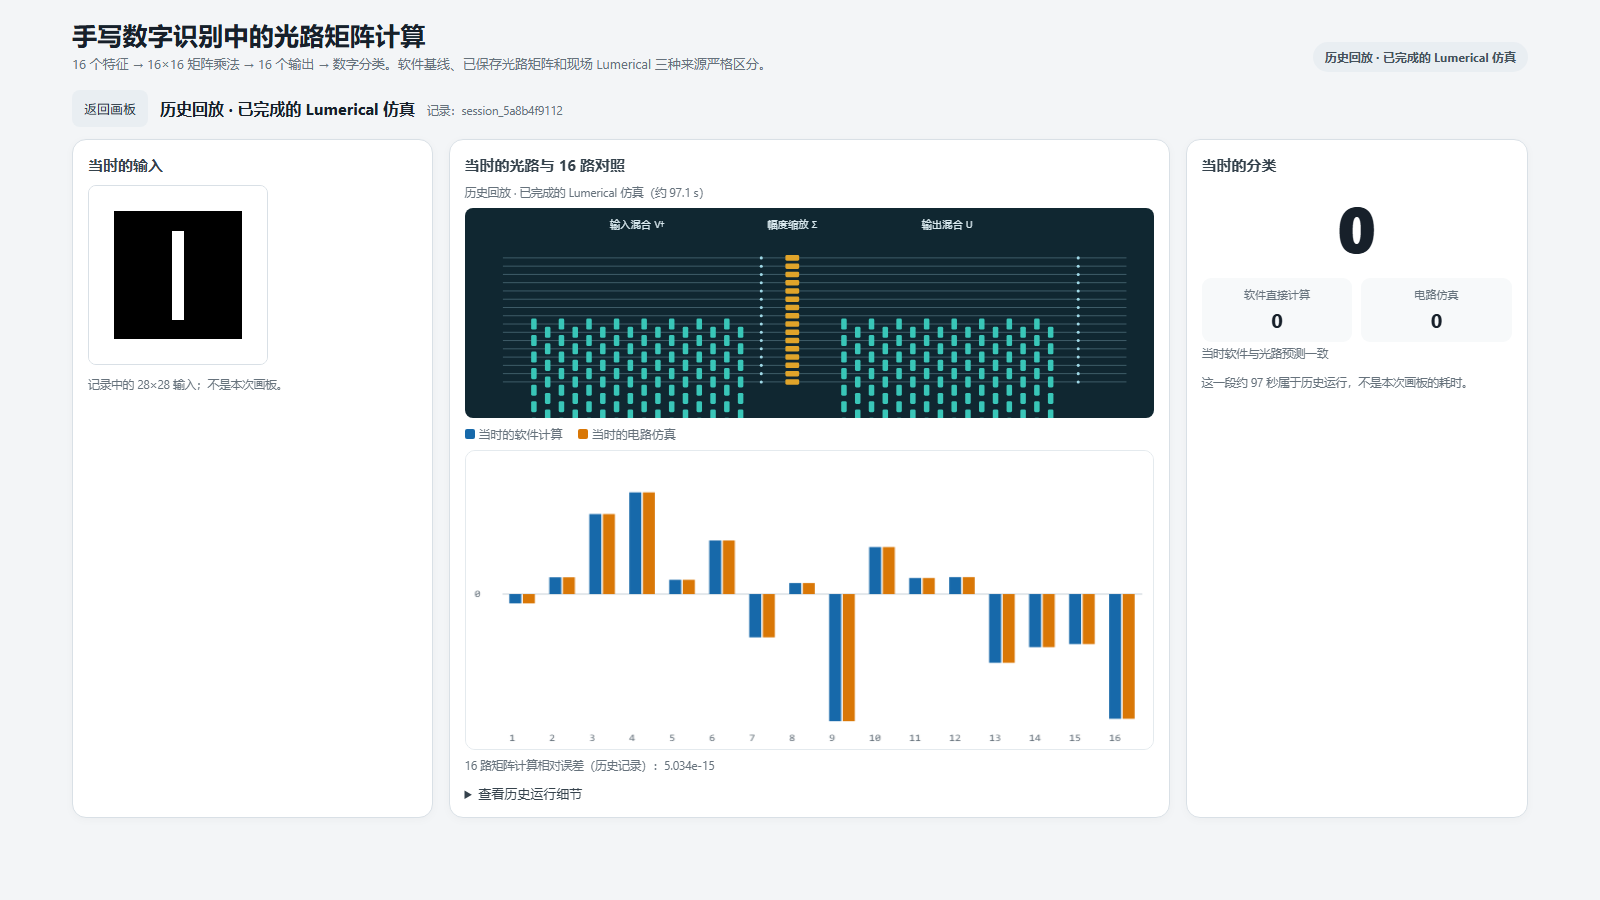
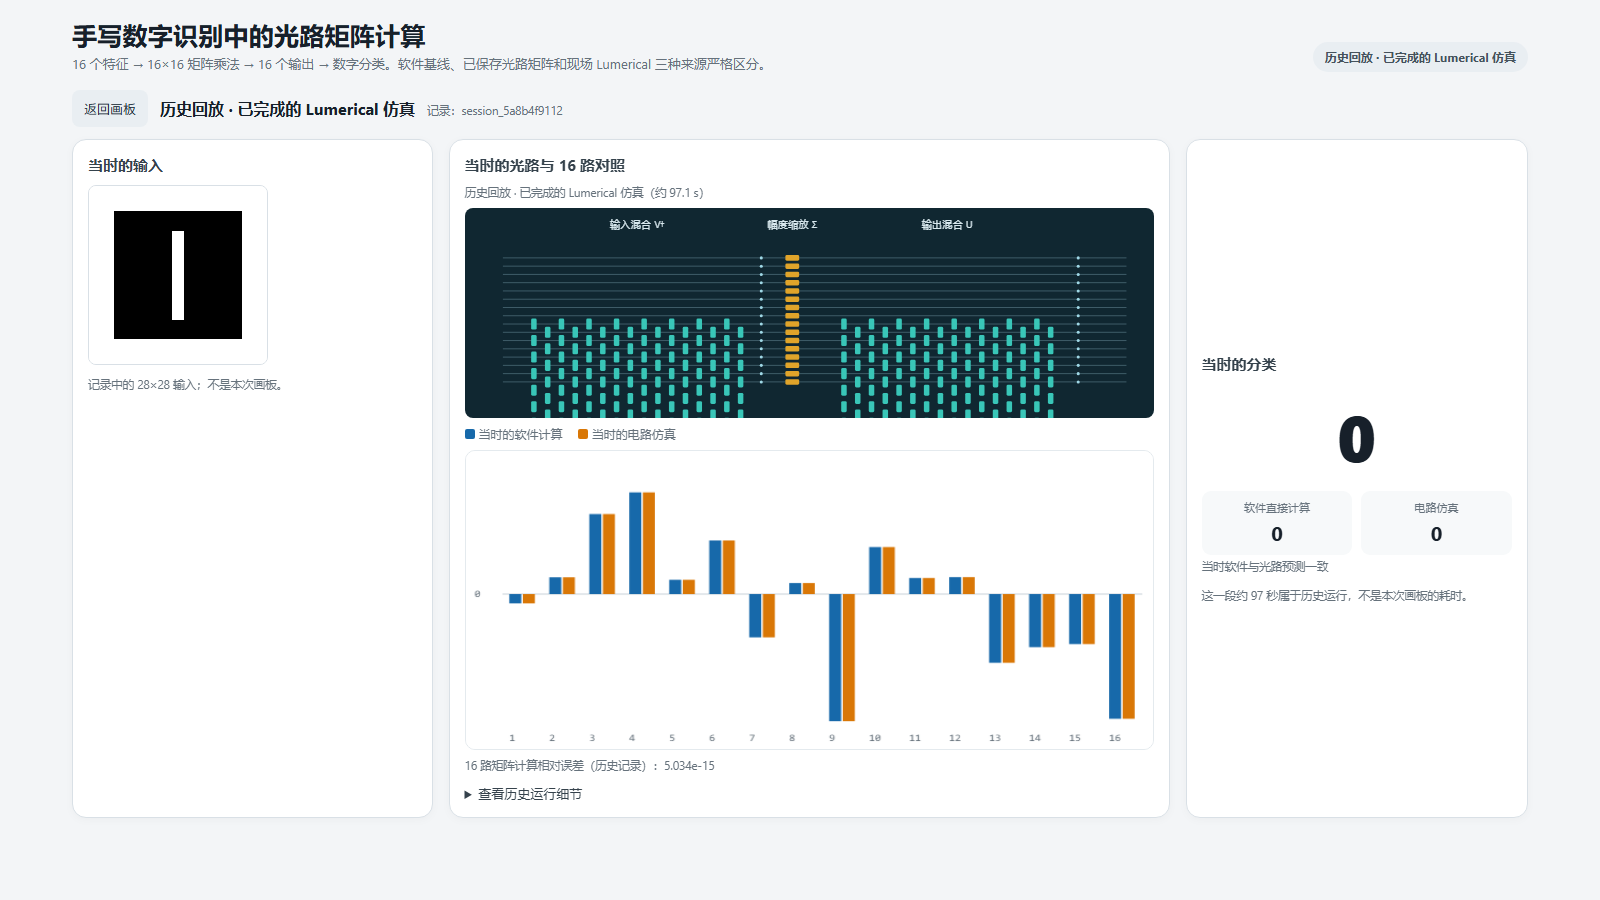
Balance presentation columns and topology layout

diff --git a/lumerical/live_digit_ui.py b/lumerical/live_digit_ui.py
@@ -43,26 +43,27 @@ h1 { font-size:25px; margin:0; letter-spacing:.01em; }
 #sourceBadge.live { background:#d93025; color:#fff; }
 #sourceBadge.cached { background:#e9eef2; color:#45525c; }
 #sourceBadge.digital { background:#e9eef2; color:#45525c; }
-main { max-width:1500px; margin:0 auto; padding:10px 22px 26px; display:grid; grid-template-columns:minmax(250px,1fr) minmax(430px,2fr) minmax(230px,.95fr); gap:16px; align-items:start; }
-.card { background:#fff; border:1px solid var(--line); border-radius:14px; padding:15px; box-shadow:0 2px 10px #00000008; min-width:0; }
+main { max-width:1500px; margin:0 auto; padding:10px 22px 26px; display:grid; grid-template-columns:minmax(250px,1fr) minmax(430px,2fr) minmax(230px,.95fr); gap:16px; align-items:stretch; }
+.card { background:#fff; border:1px solid var(--line); border-radius:14px; padding:15px; box-shadow:0 2px 10px #00000008; min-width:0; height:100%; }
+.classifyCard { display:flex; flex-direction:column; justify-content:center; }
 .card h2 { font-size:15px; margin:0 0 10px; color:#35424c; }
-canvas.pad { width:100%; max-width:300px; aspect-ratio:1; border:1px solid #b9c4cc; border-radius:10px; touch-action:none; cursor:crosshair; display:block; margin:0 auto; background:#fff; }
-.row { display:flex; gap:8px; flex-wrap:wrap; margin-top:10px; align-items:center; }
+canvas.pad { width:100%; max-width:200px; aspect-ratio:1; border:1px solid #b9c4cc; border-radius:10px; touch-action:none; cursor:crosshair; display:block; margin:0 auto; background:#fff; }
+.row { display:flex; gap:8px; flex-wrap:wrap; margin-top:7px; align-items:center; }
 button { border:0; border-radius:8px; padding:9px 12px; font-size:13px; cursor:pointer; background:#e9eef2; color:#23313c; }
 button.primary { background:var(--blue); color:#fff; }
 button:disabled { opacity:.55; cursor:wait; }
 label { font-size:12.5px; color:#35424c; display:flex; gap:6px; align-items:center; }
-#status { color:var(--muted); font-size:12.5px; margin-top:10px; min-height:20px; }
-#previewWrap { margin-top:12px; text-align:center; }
-#preview { width:120px; height:120px; image-rendering:pixelated; border:1px solid var(--line); border-radius:8px; background:#fff; }
+#status { color:var(--muted); font-size:12.5px; margin-top:7px; min-height:18px; }
+#previewWrap { margin-top:8px; text-align:center; }
+#preview { width:80px; height:80px; image-rendering:pixelated; border:1px solid var(--line); border-radius:8px; background:#fff; }
 .caption { color:var(--muted); font-size:11.5px; margin-top:4px; }
 #chart { width:100%; height:260px; display:block; border:1px solid #e4eaee; border-radius:10px; background:#fff; }
 .bottom { max-width:1500px; margin:0 auto; padding:0 22px 26px; display:grid; grid-template-columns:minmax(360px,1fr) minmax(420px,1.45fr); gap:16px; align-items:start; }
 .bottom[hidden] { display:none; }
-.topoCard { background:#102731; border-color:#102731; color:#eaf4f7; padding:14px; }
+.topoCard { background:#102731; border-color:#102731; color:#eaf4f7; padding:14px; display:flex; flex-direction:column; }
 .topoCard h2, .topoCard .caption { color:#d8e8ee; }
 .topoCard .caption { color:#9fb8c4; }
-#topoSvg { width:100%; height:auto; display:block; margin-top:6px; }
+#topoSvg { width:100%; height:auto; display:block; margin:auto 0; }
 #historyTopoSvg { width:100%; height:210px; display:block; background:#102731; border-radius:8px; margin:8px 0; }
 .mziCard svg { width:100%; height:auto; background:#fbfcfd; border:1px solid #e4eaee; border-radius:8px; margin-top:8px; }
 #mziInfo { margin-top:8px; font-size:12px; color:#45525c; }
@@ -85,7 +86,7 @@ summary { cursor:pointer; color:#35424c; font-size:13px; }
 pre { white-space:pre-wrap; overflow-wrap:anywhere; background:#f7f9fa; border-radius:8px; padding:9px; font:11.5px/1.5 Consolas,monospace; color:#3e4b55; }
 .historyWrap { max-width:1500px; margin:0 auto; padding:10px 22px 26px; }
 .historyTop { display:flex; align-items:center; gap:12px; flex-wrap:wrap; margin-bottom:12px; }
-.historyGrid { display:grid; grid-template-columns:minmax(240px,1fr) minmax(430px,2fr) minmax(230px,.95fr); gap:16px; }
+.historyGrid { display:grid; grid-template-columns:minmax(240px,1fr) minmax(430px,2fr) minmax(230px,.95fr); gap:16px; align-items:stretch; }
 #historyView[hidden], main[hidden] { display:none; }
 @media(max-width:1050px) { main, .historyGrid, .bottom { grid-template-columns:1fr; } header { align-items:flex-start; flex-direction:column; } canvas.pad { max-width:280px; } }
 </style>
@@ -125,7 +126,7 @@ pre { white-space:pre-wrap; overflow-wrap:anywhere; background:#f7f9fa; border-r
     <div class="topoNote">240 个 MZI · 16 个衰减器；中央结构固定，不随输入变化。绿色块连接相邻两条通道。</div>
   </section>
 
-  <section class="card">
+  <section class="card classifyCard">
     <h2>分类</h2>
     <div id="prediction" class="big">—</div>
     <div class="classHint">程序根据这 16 个输出完成分类</div>
@@ -175,7 +176,7 @@ pre { white-space:pre-wrap; overflow-wrap:anywhere; background:#f7f9fa; border-r
       <div id="historyError" class="caption"></div>
       <details><summary>查看历史运行细节</summary><div id="historyDetail" class="caption"></div></details>
     </section>
-    <section class="card">
+    <section class="card classifyCard">
       <h2>当时的分类</h2>
       <div id="historyPrediction" class="big">—</div>
       <div class="predGrid">
